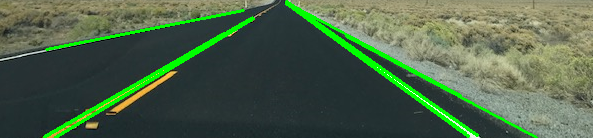
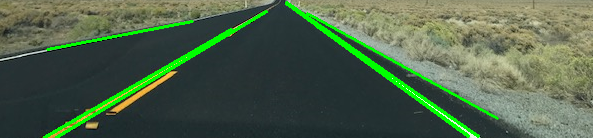
adjusted canny edge threshold values

diff --git a/Homework 4/4.1.py b/Homework 4/4.1.py
@@ -10,28 +10,30 @@ gray = cv2.cvtColor(hwy, cv2.COLOR_BGR2GRAY)
 # applies median blur to remove background noise
 blur = cv2.medianBlur(gray,5)
 
-# canny edge detection: minVal=50, maxVal=150
-edges = cv2.Canny(blur, 50, 150)
+# canny edge detection, (image source, minimum threshold, maximum threshold)
+edges = cv2.Canny(blur, 80, 110)
 
 # applies probabilistic hough line transform method on 'edges' to obtain line end points
 # returns list of endpoints for each line, with each element in the array being 4 integers (x1, y1, x2, y2)
 lines = cv2.HoughLinesP(
-              edges,
-              1, # Distance resolution in pixels
-              np.pi / 180, # Angle resolution in radians
-              threshold = 100, # Min number of votes for valid line
-              minLineLength = 40, # Min allowed length of line
-              maxLineGap = 20 # Max allowed gap between line for joining them
-              )
+            edges,
+            1, # Distance resolution in pixels
+            np.pi / 180, # Angle resolution in radians
+            threshold = 100, # Min number of votes for valid line
+            minLineLength = 40, # Min allowed length of line
+            maxLineGap = 15 # Max allowed gap between line for joining them
+            )
 
 # iterates over lines, connects endpoints by drawing lines, adds endpoints to new array lines_array
 lines_array = []
 for points in lines:
     # Extracted points nested in the array
     x1,y1,x2,y2 = points[0]
+
     # Draw the lines joing the points on the original image 'hwy'
     cv2.line(hwy, (x1,y1), (x2,y2), (0,255,0), 2)
-    # Adds line to lines_array, saved as a set of two endpoint with each set representing a line
+
+    # stores line to lines_array, saved as a set of two endpoint with each set representing a line
     lines_array.append([(x1,y1), (x2,y2)])
      
 # Save the result image as 'detectedLines.png'
